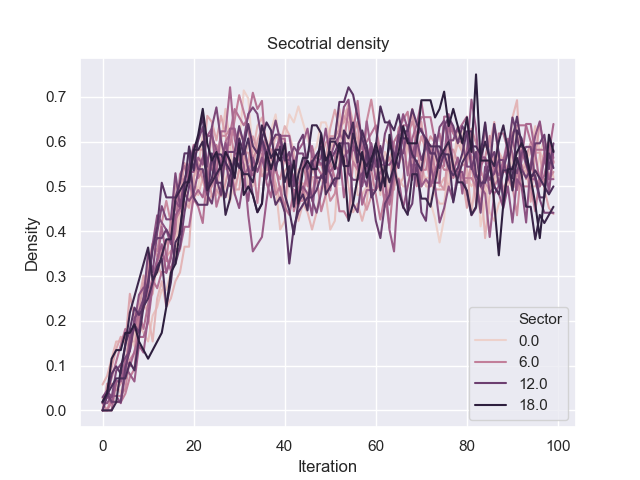
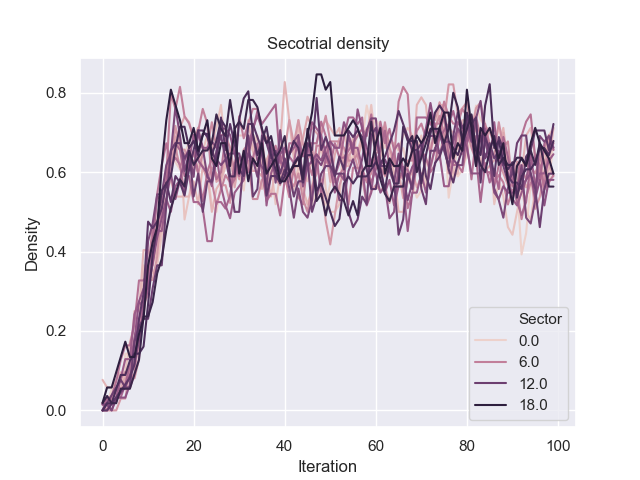
Changes for execution
To facilitate execution of the rest of the code for Jordi and new local executions to test the functions.

diff --git a/cascades.py b/cascades.py
@@ -7,6 +7,7 @@ import matplotlib.pyplot as plt
 import numpy as np
 from risk_functions import set_initial_defaults
 from joblib import Parallel, delayed
+import pickle
 
 
 # as we store at which iteration they become infected it is trivial
@@ -245,7 +246,7 @@ def most_probable(probabilities, max_size):
 def cascades_sizes_multiple(graph: DiGraph, repetitions=25, max_iterations=100,
                             mu=0.2, beta=0.6,
                             policy='RANDOM', delays=[2, 4, 6], weight_transfer=False,
-                            filename='images/risk_cascades.png'):
+                            filename='results/cascades/'):
     total_sizes = []
     for delay in delays:
         sizes = full_check_cascade_size_recursive(graph, repetitions=repetitions,
@@ -254,7 +255,8 @@ def cascades_sizes_multiple(graph: DiGraph, repetitions=25, max_iterations=100,
                                                   delay=delay, show=False)
         size = lists_to_list(sizes)
         total_sizes.append(size)
-
+    filename = filename + policy + str(delays) + '.pickle'
+    pickle.dump(total_sizes, open(filename, 'wb'))
     return total_sizes
 
 

diff --git a/sectorial_main.py b/sectorial_main.py
@@ -6,15 +6,13 @@ import time
 g = pickle.load(open('graphs/new.pickle', 'rb'))
 start = time.time()
 
-data = sectorial_density(g,repetitions=5,delay=3,mu = 0.2,beta=0.6,policy = 'SOFT',
-                         filename='results/density/Sectorial_dens_prova',iterations=100)
+data = sectorial_density(g,repetitions=5,delay=4,mu = 0.2,beta=0.6,policy = 'SOFT',
+                         filename='results/density/Sectorial_',iterations=100)
 end = time.time()
 print(end - start)
 
-plot_sectorial_dataframe(data)
+plot_sectorial_dataframe(data,filename='images/density/Sectorial_densitySOFT4.png')
 
-#fmri = sns.load_dataset("fmri")
-#ax = sns.lineplot(x="timepoint", y="signal", data=fmri)
 
 '''
 data = pickle.load(open('results/density/Sectorial_dens_provaSOFT3.pickle', 'rb'))

diff --git a/cascades_main.py b/cascades_main.py
@@ -1,0 +1,16 @@
+from cascades import plot_cascade_sizes,cascades_sizes_multiple
+import pickle
+import time
+
+start = time.time
+g = pickle.load(open('graphs/new.pickle', 'rb'))
+
+sizes = cascades_sizes_multiple(g,mu=0.2,beta=0.4,delays=[2,3,4,5],policy='SOFT',repetitions=30)
+
+
+end = time.time
+
+print(end-start)
+
+plot_cascade_sizes(sizes,delays=[2,3,4,5],ylim = 10e-4,colors=['r','g','b','k'],
+                   filename='images/cascades/beta_0.4/compa_SOFT.png')

diff --git a/sectorial_density_functions.py b/sectorial_density_functions.py
@@ -98,7 +98,7 @@ def run_sectorial_d(graph,mu, beta, recon_policy,delay, iterations,num_sectors):
     return density_by_sector
 
 def plot_sectorial_dataframe(data,filename='images/density/Sectorial_density_SOFT3.png',
-                             title='Secotrial density'):
+                             title='Sectorial density'):
     plt.figure()
     plt.title(title)
     

diff --git a/analyze_cascades.py b/analyze_cascades.py
@@ -61,4 +61,3 @@ for i in range(number_of_sectors):
               maxim_prob[i*len(delays_risk)+j],'\n Maximum size of the cascade',
               maximums[i*len(delays_risk)+j])
         j +=1
-        
